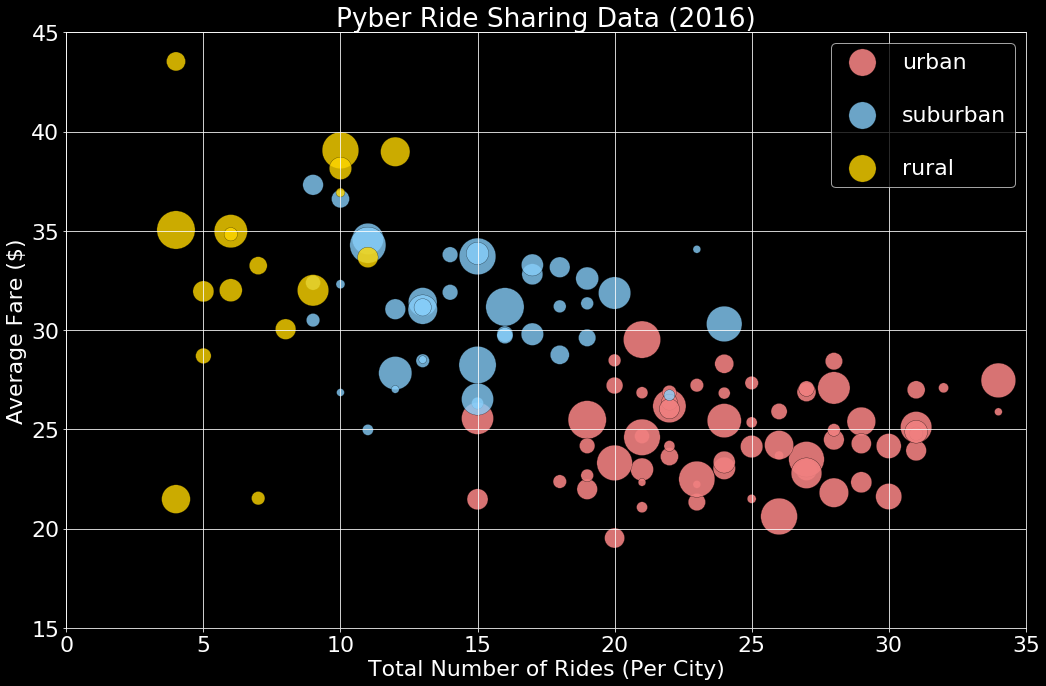
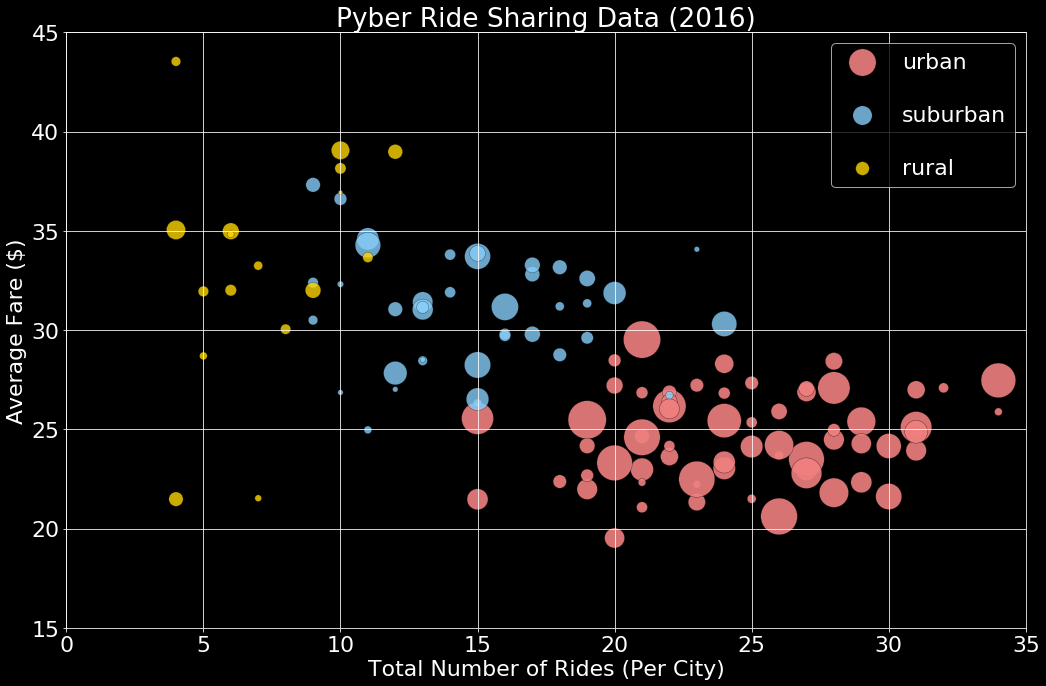
pyber

diff --git a/README.md b/README.md
@@ -226,8 +226,8 @@ rural = bubble_df[bubble_df["city_type"]=="Rural"]
 plt.style.use("dark_background")
 matplotlib.rcParams.update({'font.size': 22})
 ax = urban.plot(kind="scatter", x="total_rides", y="average_fare", figsize=(15,10), alpha=.9, edgecolor="k", linewidth=0.3, s=total_drivers*20, color="lightcoral", label="urban");
-suburban.plot(kind="scatter", x="total_rides", y="average_fare", alpha=.8, edgecolor="k", linewidth=0.3, s=total_drivers*20, color="lightskyblue", label="suburban", ax=ax);
-rural.plot(kind="scatter", x="total_rides", y="average_fare", alpha=.8, edgecolor="k", linewidth=0.3, s=total_drivers*20, color="gold", label="rural", ax=ax);
+suburban.plot(kind="scatter", x="total_rides", y="average_fare", alpha=.8, edgecolor="k", linewidth=0.3, s=total_drivers*10, color="lightskyblue", label="suburban", ax=ax);
+rural.plot(kind="scatter", x="total_rides", y="average_fare", alpha=.8, edgecolor="k", linewidth=0.3, s=total_drivers*5, color="gold", label="rural", ax=ax);
 
 # Set style
 plt.grid()
